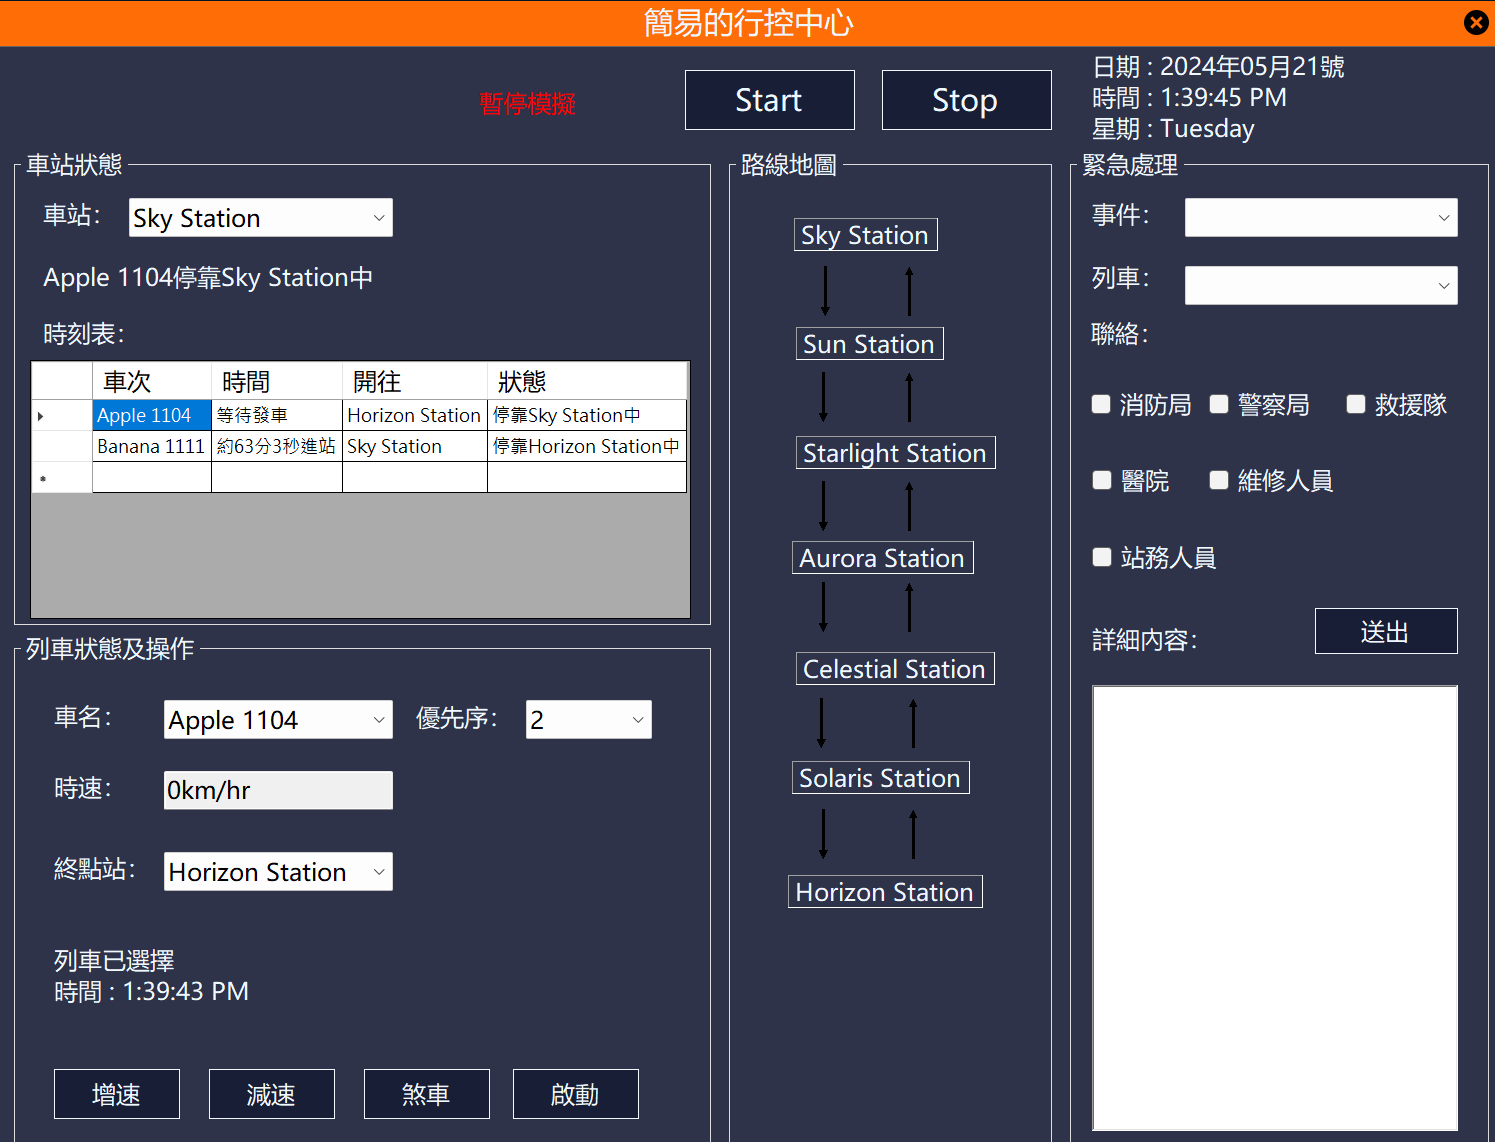
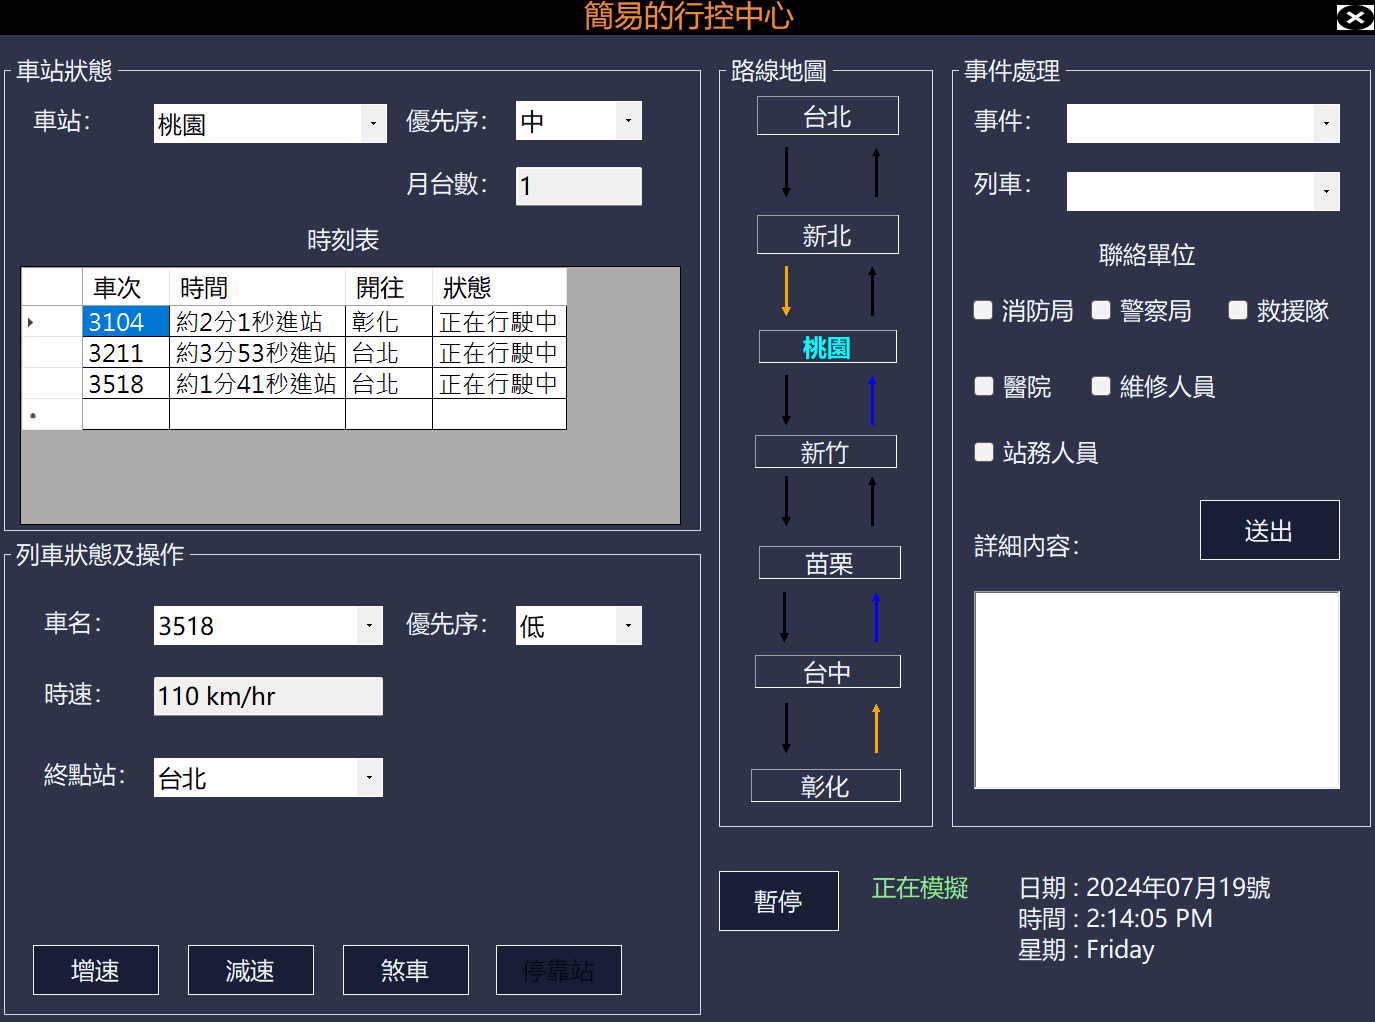
新增

diff --git a/project.html b/project.html
@@ -21,7 +21,7 @@
                     <img src="Screenshots/photo.png" alt="Photo Icon">
                     <p>精選圖集</p>
                 </nav>
-                <nav onclick="redirectToPage('project.html')">
+                <nav onclick="redirectToPage('project.html')"  class="cp">
                     <img src="Screenshots/project.png" alt="Project Icon">
                     <p>作品展示</p>
                 </nav>
@@ -36,10 +36,10 @@
             </div>
             <div id="catalog">
                 <h2>目錄</h2>
-                <nav onclick="redirectToPage('#section1')">
+                <nav onclick="toArticle('#section1')">
                     <p>一、旅行商問題</p>
                 </nav>
-                <nav onclick="redirectToPage('#section2')">
+                <nav onclick="toArticle('#section2')">
                     <p>二、簡易的行控中心</p>
                 </nav>
             </div>
@@ -56,7 +56,7 @@
                     </div>
                     <nav>
                         <a href="https://github.com/ChenGuoXiang940/Algorithm/tree/6b44667a3bcf469e8c33ed8b7e4a1fc4addb3b5a/%E5%9B%B0%E9%9B%A3%E5%95%8F%E9%A1%8CNP/%E6%97%85%E9%81%8A%E5%95%86%E5%95%8F%E9%A1%8CTSP"
-                            target="_blank" style="color: #FFFFCC;">儲存庫連結</a>
+                            target="_blank" style="color: #FFFFCC;" class="link">儲存庫連結</a>
                     </nav>
                 </header>
                 <section>
@@ -134,38 +134,64 @@ while (tempterature > 1E-9 && Math.Abs(new_energy - old_energy) > 1E-9)
                         <h2>簡易的行控中心</h2>
                         <div class="tags">
                             <span class="message-tags">軟體設計</span>
+                            <span class="message-tags">模擬</span>
                             <span class="message-tags">C#</span>
                         </div>
                         <nav>
-                            <a href="https://github.com/ChenGuoXiang940/NTCUST_OCC_myproject.git" target="_blank" style="color: #FFFFCC;">儲存庫連結</a>
+                            <a href="https://github.com/ChenGuoXiang940/NTCUST_OCC_myproject.git" target="_blank" style="color: #FFFFCC;" class="link">儲存庫連結</a>
                         </nav>
                     </header>
                     <section>
                         <h3>表單設計</h3>
-                        <div class="gridcontainer">
-                            <figure class="griditem">
-                                <img class="img-photo" src="Screenshots/p2-1.png" alt="p2-1">
-                            </figure>
-                            <figure class="griditem">
-                                <img class="img-photo" src="Screenshots/p2-2.png" alt="p2-2">
-                            </figure>
-                        </div>
-                    </section>
-                    <section>
+                        <img class="img-photo" src="Screenshots/p2-1.png" alt="p2-1" width="50%">
                         <h3>主要功能</h3>
                         <ul>
                             <li>使用者可以自行操作列車</li>
                             <li>時刻掌握當前時間</li>
                             <li>使用模擬計算來預估列車的當前狀態</li>
                             <li>路線地圖可視化展示</li>
+                            <li>緊急事件處理</li>
                             <li>用戶回饋功能</li>
+                            <li>更多功能日後開發(維護和檢修計劃、能源管理連接資料庫)</li>
                         </ul>
+                        <h3>功能介紹</h3>
+                        <p class="smalltitle">1. 車站狀態</p>
+                        <p>請選擇車站名稱，可以調整優先序。</p>
+                        <p>時刻表包含將進站的列車名、預估抵達時間、起始站、終點站。</p>
+                        <p class="smalltitle">2. 列車狀態及操作</p>
+                        <p>請選擇列車名稱，可以調整優先序、更改終點站，但先臨停。</p>
+                        <ul>
+                            <li>列車出站加速度為 1.0 m/s²，維持且不超過 110km/h。</li>
+                            <li>列車進站加速度為 -0.8 m/s²。</li>
+                            <li>調整時速請按「增速」和「減速」分別和進出站加速度相同，增減速不超過 ±10km/h。</li>
+                            <li>「煞車」煞車加速度為 -2.5 m/s² 用於急煞。</li>
+                            <li>「啟動」不等候直接出站或中途停止要開始行駛。</li>
+                            <li>「發車」等候發車。</li>
+                            <li>「停靠站」在此站不發車，需要先停靠在車站。</li>
+                            <li>車站優先序如果低於列車則不會臨停。</li>
+                        </ul>
+                        <ul>
+                            <li>同方向列車不會在車站同時發車，考慮安全問題。</li>
+                            <li>如果要進站的月台數不足則不會發車，需等待已在進站月台的列車離站。</li>
+                            <li>一個月台有各一個北上和南下。</li>
+                        </ul>
+                        <p class="smalltitle">3. 路線地圖</p>
+                        <p>點選車站名可直接更改列車站狀態的車站名。</p>
+                        <p>箭頭顏色說明：</p>
+                        <ul>
+                            <li><span style="color: black;">黑色箭頭</span>：無列車在此行駛。</li>
+                            <li><span style="color: orange;">橘色箭頭</span>：有列車要進站或離站。</li>
+                            <li><span style="color: blue;">藍色箭頭</span>：有列車正在此行駛。</li>
+                            <li><span style="color: red;">紅色箭頭</span>：存在安全問題。</li>
+                        </ul>
+                        <p class="smalltitle">4. 事件處理</p>
+                        <p>選擇事件及列車，勾選聯絡單位，詳細內容可為空。</p>
+                        <p>模擬事件回報功能。</p>
                     </section>
             </article>
         </main>
         <footer>
             <hr>
-            <a class="a-back" href="#">Back to Top</a>
         </footer>
         <style>
             #catalog{
@@ -177,6 +203,12 @@ while (tempterature > 1E-9 && Math.Abs(new_energy - old_energy) > 1E-9)
             }
             #catalog>nav>p{
                 color: aliceblue;
+                font-family: '標楷體' , sans-serif;
+                font-size: 20px;
+            }
+            section>p,section>ul{
+                margin-left: 20px;
+                margin-right: 20px;
             }
             .message-tags{
                 border: #FFFFCC 0.5px solid;
@@ -188,11 +220,6 @@ while (tempterature > 1E-9 && Math.Abs(new_energy - old_energy) > 1E-9)
                 margin: 0 0 0 8px;
                 display: inline-block;
                 color: #FFFFCC;
-            }
-            .gridcontainer {
-                display: grid;
-                gap: 20px;
-                grid-template-columns: 1fr;
             }
             @media screen and (max-width: 501px) {
                 .gridcontainer {
@@ -229,6 +256,10 @@ while (tempterature > 1E-9 && Math.Abs(new_energy - old_energy) > 1E-9)
                 transition: background-color 0.3s ease;
                 animation: spotlight 2s infinite;
             }
+            img {
+                float: center;
+                margin-right: 20px;
+            }
         </style>
         <script src="script.js"></script>
         <script src="prism.js"></script>
@@ -250,22 +281,32 @@ while (tempterature > 1E-9 && Math.Abs(new_energy - old_energy) > 1E-9)
                     tagsElements[0].appendChild(newMessageTags);
                 });
             });
-
             const sections = document.querySelectorAll('section');
             const navLinks = document.querySelectorAll('#catalog nav');
             const observer = new IntersectionObserver((entries) => {
                 entries.forEach((entry) => {
                     if (entry.isIntersecting) {
                         const id = entry.target.getAttribute('id');
-                        document.querySelector(`#catalog nav[onclick="redirectToPage('#${id}')"]`).classList.add('active');
+                        document.querySelector(`#catalog nav[onclick="toArticle('#${id}')"]`).classList.add('active');
                     } else {
                         const id = entry.target.getAttribute('id');
-                        document.querySelector(`#catalog nav[onclick="redirectToPage('#${id}')"]`).classList.remove('active');
+                        document.querySelector(`#catalog nav[onclick="toArticle('#${id}')"]`).classList.remove('active');
                     }
                 });
             });
             sections.forEach((section) => {
                 observer.observe(section);
             });
+            function toArticle(selector) {                
+                const element = document.querySelector(selector);
+                if (element) {
+                    const top = element.getBoundingClientRect().top + window.pageYOffset-70;
+                    if(top<0)top=0;
+                    window.scrollTo({
+                        top: top,
+                        behavior: "smooth"
+                    });
+                }
+            }
         </script>
     </body>

diff --git a/index.html b/index.html
@@ -12,7 +12,7 @@
         <header>
             <div class="blogTitle">
                 <h1>個人網頁</h1>
-                <nav onclick="redirectToPage('index.html')">
+                <nav onclick="redirectToPage('index.html')"  class="cp">
                     <img src="Screenshots/home.png" alt="Home Icon">
                     <p>主頁</p>
                 </nav>
@@ -40,12 +40,36 @@
                 <h2 id="department-title" style="position: absolute; top: 35%; left: 50%; transform: translate(-50%, -50%);">資訊工程系</h2>
             </div>
             <div style="text-align: center;"><h3 id="student-text">H</h3><span id="cursor"></span></div>
+            <article class="feedback-section" style="width: 50%;margin: auto;text-align: center;">
+                <p>Was this page helpful to you?</p>
+                <button id="yesButton">Yes</button>
+                <button id="noButton">No</button>
+                <p id="feedbackResponse" style="color: #13c2c2;"></p>
+            </article>
         </main>
         <footer>
             <hr>
-            <a class="a-back" href="#">Back to Top</a>
+            <p class="about">© 2024 ChenGuoXiang940. All rights reserved.</p>
         </footer>
         <style>      
+            .feedback-section{
+                border:solid 1px #f0883e;
+                border-radius: 5px;
+                
+            }
+            .feedback-section p, .feedback-section button {
+                margin: 5px;
+                font-family: "Raleway", sans-serif;
+            }
+            #yesButton, #noButton {
+                cursor: pointer;
+                padding: 5px 10px;
+                font-size: 16px;
+                border: 1px solid #13c2c2;
+                border-radius: 5px;
+                color: #13c2c2;
+                background-color: #000000;
+            }
             #department-title {
                 font-size: 36px;
                 font-family: "Poppins", sans-serif; 
@@ -97,11 +121,19 @@
                                     animateText();
                                 }
                             }, 100);
-                        }, 3000);
+                        }, 5000);
                     }
                 }, 100);
             }
-        animateText();
+            animateText();
+            document.getElementById('yesButton').addEventListener('click', function() {
+                document.getElementById('feedbackResponse').textContent = 'Thank you for your feedback!';
+                document.getElementById('noButton').remove();
+            });
+            document.getElementById('noButton').addEventListener('click', function() {
+                document.getElementById('feedbackResponse').textContent = 'Thank you for your feedback!';
+                document.getElementById('yesButton').remove();
+            });
         </script>
     </body>
 </html>

diff --git a/style.css b/style.css
@@ -157,6 +157,14 @@ p {
     text-align: justify;
     margin-bottom: 10px;
 }
+.smalltitle{
+    color: #FFFFCC;
+    text-decoration: underline;
+    text-align: center;
+}
+.link:hover,.smalltitle:hover{
+    text-decoration: none;
+}
 .a-detail {
     color: #13c2c2;
     font-weight: bold;
@@ -190,20 +198,15 @@ p {
     opacity: 1;
 }
 
-.a-about {
-    text-decoration: none;
+.about {
+    text-decoration: underline;
     color:  #f0883e;
-    padding: 20px 0;
+    padding: 2px 0;
+    text-align: center;
 }
-
-.a-back {
-    float: right;
-    padding-right: 2%;
+.about:hover {
     text-decoration: none;
-    color:#13c2c2;
-    font-family: "Arial";
 }
-
 #background {
     position: fixed;
     top: 0;
@@ -228,8 +231,10 @@ p {
 
 .img-photo {
     max-width: 100%;
-    height: auto;
+    margin-left: auto;
+    margin-right: auto;
     border: 1px solid aliceblue;
+    display: block;
 }
 @keyframes moveAndFade {
     from {
@@ -244,4 +249,16 @@ p {
 
 .ball {
     animation: moveAndFade 300ms linear forwards;
+}
+.cp {
+    position: fixed;
+    bottom: 0;
+    left: 0;
+    padding: 10px;
+    color: #f0883e;
+    font-size: 20px;
+    text-decoration: none;
+    background-color: #333;
+    border-radius: 5px 0 0 0;
+    z-index: 1000;
 }

diff --git a/photo.html b/photo.html
@@ -16,7 +16,7 @@
                     <img src="Screenshots/home.png" alt="Home Icon">
                     <p>主頁</p>
                 </nav>
-                <nav onclick="redirectToPage('photo.html')">
+                <nav onclick="redirectToPage('photo.html')"  class="cp">
                     <img src="Screenshots/photo.png" alt="Photo Icon">
                     <p>精選圖集</p>
                 </nav>
@@ -73,7 +73,6 @@
         </main>
         <footer>
             <hr>
-            <a class="a-back" href="#">Back to Top</a>
         </footer>
         <style>
             .gridcontainer {

diff --git a/about.html b/about.html
@@ -24,7 +24,7 @@
                 <img src="Screenshots/project.png" alt="Project Icon">
                 <p>作品展示</p>
             </nav>
-            <nav onclick="redirectToPage('about.html')">
+            <nav onclick="redirectToPage('about.html')" class="cp">
                 <img src="Screenshots/about.png" alt="About Icon">
                 <p>關於我</p>
             </nav>
@@ -148,7 +148,6 @@
     </main>
     <footer>
         <hr>
-        <a class="a-back" href="#">Back to Top</a>
     </footer>
     <script src="script.js"></script>
     <style>
